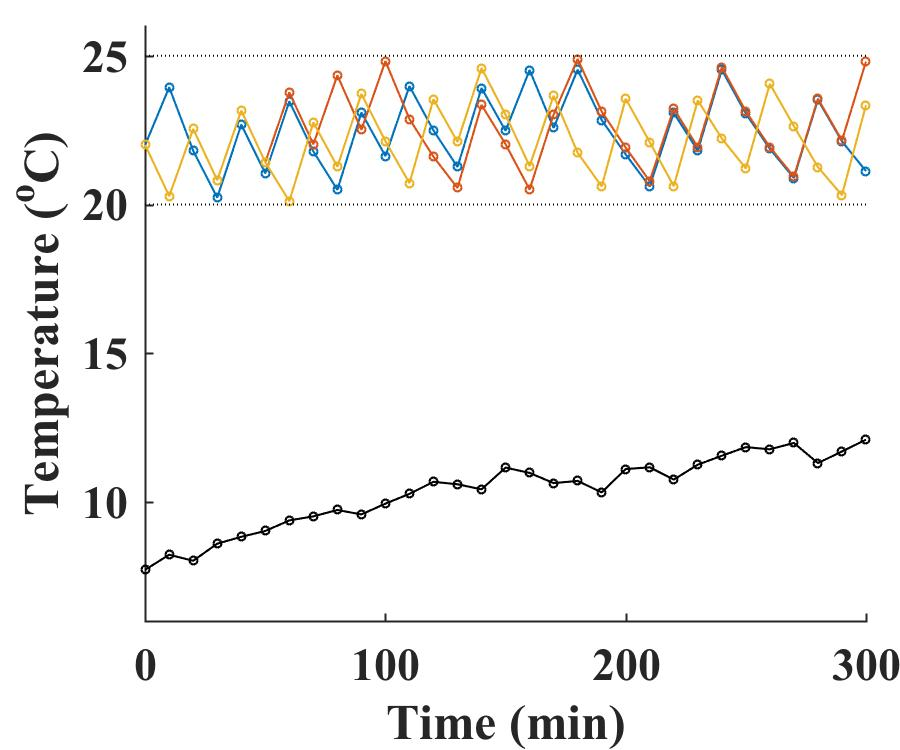
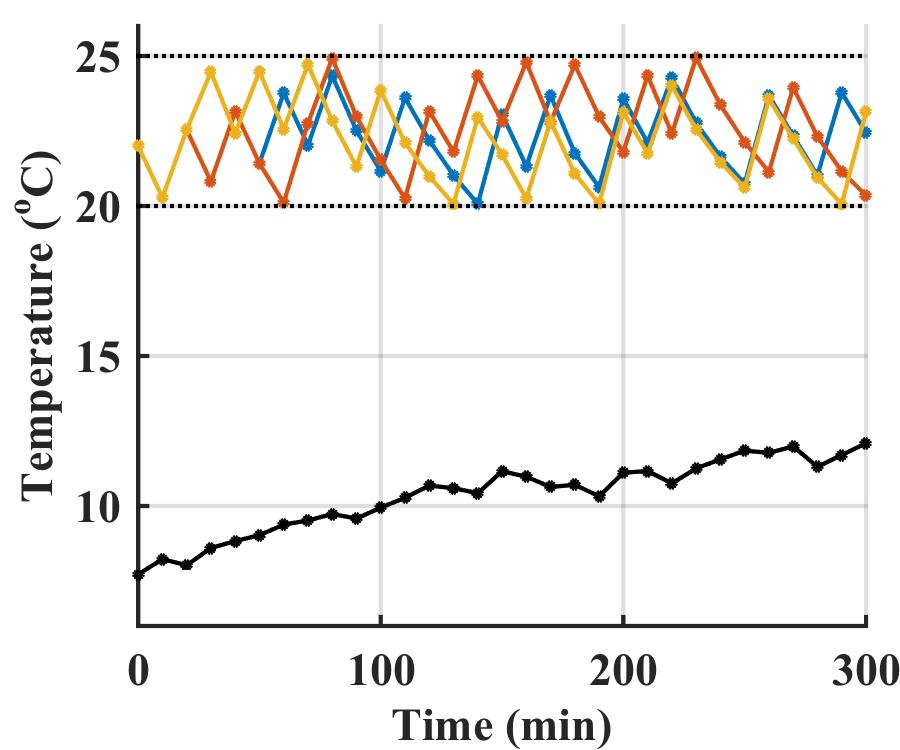
fresh update

Changed region(s): [[0.0, 0.0307, 1.0, 1.0]]

diff --git a/MILP.m b/MILP.m
@@ -1,7 +1,7 @@
-function [uz, ug] = MILP(Z, G, n, t, I, Qz, Efan, etaz, Pg, Fg, Rz, Cz, kz, Tll, Tul, T_o, rho_temp, plt )
+function [time, uz, ug] = MILP(par, T_o, forecast, q_int, constraints, plt)
 % 
 % %%%%%%%%%%%%%%%%%%%%%%%%%%%%%%%%%%%%%%%%%%%%%%%%%%%%%%%%%%%%%%%%%%%%%%%%%%%
-%   Grant Gunnison
+%   David, Grant Gunnison, Pete Lindahl
 %
 %  This program solves the optimization of a number of army tent heaters 
 %  drawing power from a number of generators.  The heaters are on-off
@@ -15,17 +15,64 @@ function [uz, ug] = MILP(Z, G, n, t, I, Qz, Efan, etaz, Pg, Fg, Rz, Cz, kz, Tll,
 %  4) Internal gains are assumed all convective
 %  5) Temperature constraints are soft
 %
+%  Inputs:
+%
+%   Parameters - par
+%       (1) - Number of tents (1 heater per tent)      (-)
+%       (2) - Number of generators                     (-)
+%       (3) - Simulation starting time (Unix)          (s)
+%       (4) - Planning horizon                         (s)
+%       (5) - Time interval of planning horizon        (s)
+%       (6) - MILP time intervals                      (s)
+%       (7) - Nominal Heating output of heater z       (W)
+%       (8) - Power consumption of supply fan z        (W)
+%       (9) - Nom. Power-Heat efficiency of heater z   (Wth/We)
+%       (10)- Nominal Power output of generator g      (W)
+%       (11)- Nom. Fuel consumption of generator g     (Gal/s)
+%       (12)- Nominal Resistance value of tent z       (K/W)
+%       (13)- Nominal Capacitance value of tent z      (J/K)
+%       (14)- Nominal Solar absorptance coefficient z  (m^2)
+%       (15)- Penalty for temperature violation        (W)
+%
+%   T_o - initial temperature of tents                 (K)
+%
+%   forecast - contains the weather and load forecast for the MILP
+%   optimization period.
+%   Structure [2 x N]:
+%       [T_ext, Sol_ext, Q_int] where:
+%           T_ext - external temperature               (K)
+%           Sol_ext - Solarirradiance                  (W/m^2)
+%
+%   q_int - internal heat load matrix for tents (Z x N)(W)
+%
+%   constraints - contains the upper and lower limits for the tents
+%   Structure [2 x N]:
+%       [Tll, Tul] where:
+%           Tll - lower temperature limit              (K)
+%           Tul - upper temperature limit              (K)
 %%%%%%%%%%%%%%%%%%%%%%%%%%%%%%%%%%%%%%%%%%%%%%%%%%%%%%%%%%%%%%%%%%%%%%%%%%%
 close all
 tic
 %% Inputs
-%  Parameters
-% %  Z                            %  Number of tents (1 heater per tent)  (-)
-% %  G                            %  Number of generators                 (-)
-% %  n                            %  Planning horizon                     (s)
-% %  t                            %  Time interval of planning horizon    (s)
-% %  I                            %  Number of time intervals             (-)
-% %  rho_temp                     %  Penalty for temperative violation    (W)
+
+%  Unpack parameters
+Z = par(1);
+G = par(2);
+st = par(3);
+n = par(4);
+t = par(5);
+I = par(6);
+Qz = par(7);
+Efan = par(8);
+etaz = par(9);
+Pg = par(10);
+Fg = par(11);
+Rz = par(12);
+Cz = par(13);
+kz = par(14);
+rho_temp = par(15);
+
+% Create parameter streams
 Qz   = Qz*ones(1,Z);            %  Heating output of heater z           (W)
 Efan = Efan*ones(1,Z);          %  Power consumption of supply fan z    (W)
 etaz = etaz*ones(1,Z);          %  Power-Heat efficiency of heater z    (Wth/We)
@@ -34,25 +81,23 @@ Fg   = Fg*ones(1,G);            %  Fuel consumption of generator g      (Gal/s)
 Rz   = Rz*ones(1,Z);            %  Resistance value of tent z           (K/W)
 Cz   = Cz*ones(1,Z);            %  Capacitance value of tent z          (J/K)
 kz   = kz*ones(1,Z);            %  Solar absorptance coefficient z      (m^2)
-Tll  = (Tll + 273.15)*ones(I,Z);%  Lower temperature limit of tent z    (K)
-Tul  = (Tul+273.15)*ones(I,Z);  %  Upper temperature limit of tent z    (K)
-T_o  = (T_o+ 273.15)*ones(1,Z); %  Initial temperature of tent z        (K)
 
-
-weafil = 'June2014weatherdata.txt';
-% weadir = '/Users/lindahl/Documents/Research/Projects/Devens Temperature Experiment/Forward Simulation/Version 1.2/';
-weadir = '/Users/GrantGunnison/Dropbox/6.UAR/Tent Simulation/';
 %  Exogenous data
-plt = 1;
-[Tx, qsol] = ReadWeather([weadir weafil], n, 2*60, plt);
-Tx = ((Tx-32)*5/9 + 273.15)-15; % (Convert F to C) and adjust so need heating
-qint    = 1000*ones(I,Z);
+Tx = forecast(:,1);
+qsol = forecast(:,2);
+
+% combine load data (solar and internal for purposes of MILP)
 qload   = zeros(I,Z);
 for z = 1:Z
     for i = 1:I
-        qload(i,z) = kz(z)*qsol(i) + qint(i,z);
+        qload(i,z) = kz(z)*qsol(i) + q_int(i,z);
     end
 end
+
+% Constraint streams
+Tll = constraints(:,1:2:end);
+Tul = constraints(:,2:2:end);
+
 %%  Building Optimization Matrices
 %  State variables
 x = zeros(Z*I,1);
@@ -132,7 +177,6 @@ for z = 1:Z
     Tll_opt = [Tll_opt; Tll(:,z)];
     Tul_opt = [Tul_opt; Tul(:,z)];
 end
-cvx_solver gurobi
 cvx_begin quiet
     variable x_var(Z*I);
     variable x_var_bin(Z*I + G*I) binary;
@@ -183,25 +227,30 @@ end
 % Figure_properties({1}, 3, 2.5);
 % Figure_print(1, 'jpeg', 3,2.5,300, 'Number of Generators');
 % 
-% figure(2)
-% hold on;
-% plot(repmat(time,1,Z), T-273.15, '-o', 'markersize', 2);
-for z = 1:Z
-    plot(time, Tul(:,z)-273.15, ':k');
-    plot(time, Tll(:,z)-273.15, ':k');
-end
-% plot(time, Tx - 273.15, '-ok', 'markersize', 2);
-% ylabel('Temperature (^oC)');
-% xlabel('Time (min)');
-% Figure_properties({2}, 3, 2.5);
-% Figure_print(2, 'jpeg', 3,2.5,300, 'Tent Temperature');
 
-figure(3)
-hold on;
-plot(repmat(time,1,Z), uz, '-o', 'markersize', 2);
-set(gca, 'ytick', [0:1:1]);
-ylim([0 1]);
-ylabel('Tent Heater Status');
-xlabel('Time (min)');
-Figure_properties({3}, 3, 2.5);
-Figure_print(3, 'jpeg', 3,2.5,300, 'Tent Heater Status');
+if plt == 1
+    figure;
+    hold on;
+    grid on;
+    plot(repmat(time,1,Z), T-273.15, '-o', 'markersize', 2);
+    for z = 1:Z
+        plot(time, Tul(:,z)-273.15, ':k');
+        plot(time, Tll(:,z)-273.15, ':k');
+    end
+    plot(time, Tx - 273.15, '-ok', 'markersize', 2);
+    ylabel('Temperature (^oC)');
+    xlabel('Time (min)');
+    % Figure_properties({1}, 3, 2.5);
+    %Figure_print(1, 'jpeg', 3,2.5,300, 'Tent Temperature');
+
+    figure;
+    hold on;
+    grid on;
+    plot(repmat(time,1,Z), uz, '-o', 'markersize', 2);
+    set(gca, 'ytick', [0:1:1]);
+    ylim([0 1]);
+    ylabel('Tent Heater Status');
+    xlabel('Time (min)');
+    % Figure_properties({2}, 3, 2.5);
+    %Figure_print(2, 'jpeg', 3,2.5,300, 'Tent Heater Status');
+end

diff --git a/Weather Scrape.py b/Weather Scrape.py
@@ -1,0 +1,151 @@
+import mechanize
+import json
+import time as T
+import numpy as np
+import scipy.io
+
+
+'''Author Grant Gunnison, Last modified 1/21/16'''
+
+
+url ='https://api.forecast.io/forecast/4500ed9ab5c368b9ea32eca07d5c942b/'
+
+
+'''
+Arguments:
+
+location: latitude,longitude (String)
+		  
+		  Coordinates must be given with 
+		  a comma in between, but no spaces
+
+
+keys:    name of the data entry required from the json (List)
+
+Returns: Json as a dictionary
+'''
+def get_forecast_json(location, keys = 'all'):
+	
+	br = mechanize.Browser()
+	br.set_handle_robots(False)
+	response = br.open(url+ location).read()
+	max_qsol = 300
+
+	if keys == 'all':
+		json_dict = json.loads(response)
+
+	elif isinstance(keys, (list)):
+
+		forecast_dict = {}
+		json_dict = json.loads(response)
+
+		for key in keys:
+			forecast_dict[key] = json_dict[key]
+
+		json_dict = forecast_dict
+
+	sunrise = json_dict['daily']['data'][0]['sunriseTime']
+	sunset = json_dict['daily']['data'][0]['sunsetTime']
+	hour_list = []
+	for entry in json_dict['hourly']['data'][0:3]:
+		hour_list.append((entry['apparentTemperature'], entry['time'], entry['icon'], entry['cloudCover']))
+	min_tmp_list = []
+	min_qsol_list= []
+	for hour in range(len(hour_list)-1):
+		
+		difference = (hour_list[hour+1][0] - hour_list[hour][0])/60
+		temp, time = hour_list[hour][0:2]
+
+		if (hour != (len(hour_list) -2)):
+			
+			for minute in range(61):
+				
+				if minute %10 == 0:
+					temp += difference
+					tmp = ((temp-32)*5/9 + 273.15)-15;
+					time += 600
+					min_tmp_list.append(round(tmp, 3))
+					
+					if time < sunrise or time > sunset:
+						min_qsol_list.append(0.0)
+					elif time > sunrise and time < sunset and hour_list[hour][2] in ['rain', 'snow', 'sleet', 'fog', 'cloudy', 'partly-cloudy-day']:
+						coverage_qsol = (1-hour_list[hour][4])*max_qsol
+						
+						total_day_time = sunset -sunrise
+						mid_day = total_day_time/2
+						qsol_percentage = abs(time - mid_day)/mid_day
+						
+						min_qsol_list.append(round(coverage_qsol*qsol_percentage*max_qsol),2)
+					elif time > sunrise and time < sunset:
+
+						total_day_time = sunset -sunrise
+						mid_day = total_day_time/2.0
+						if time < (mid_day + sunrise):
+							qsol_percentage = (time-sunrise)/mid_day
+							min_qsol_list.append(round((qsol_percentage*max_qsol),2))
+
+						elif time == (mid_day+ sunrise):
+
+							qsol_percentage = 1
+							min_qsol_list.append(round((qsol_percentage*max_qsol),2))
+
+						elif time > (mid_day + sunrise):
+							qsol_percentage = abs(2*mid_day - (time - sunrise))/mid_day
+							
+							min_qsol_list.append(round((qsol_percentage*max_qsol),2))
+				else:
+					continue
+		else:
+			for minute in range(60):
+			
+				if minute %10 == 0:
+					temp += difference
+					tmp = ((temp-32)*5/9 + 273.15)-15;
+					time += 600
+					min_tmp_list.append(round(tmp, 3))
+					
+					if time < sunrise or time > sunset:
+						min_qsol_list.append(0.0)
+					elif time > sunrise and time < sunset and hour_list[hour][2] in ['rain', 'snow', 'sleet', 'fog', 'cloudy', 'partly-cloudy-day']:
+						coverage_qsol = (1-hour_list[hour][4])*max_qsol
+						
+						total_day_time = sunset -sunrise
+						mid_day = total_day_time/2
+						qsol_percentage = abs(time - mid_day)/mid_day
+						
+						min_qsol_list.append(round(coverage_qsol*qsol_percentage*max_qsol),2)
+					elif time > sunrise and time < sunset:
+
+						total_day_time = sunset -sunrise
+						mid_day = total_day_time/2.0
+						if time < (mid_day + sunrise):
+							qsol_percentage = (time-sunrise)/mid_day
+							min_qsol_list.append(round((qsol_percentage*max_qsol),2))
+
+						elif time == (mid_day+ sunrise):
+
+							qsol_percentage = 1
+							min_qsol_list.append(round((qsol_percentage*max_qsol),2))
+
+						elif time > (mid_day + sunrise):
+							qsol_percentage = abs(2*mid_day - (time - sunrise))/mid_day
+							
+							min_qsol_list.append(round((qsol_percentage*max_qsol),2))
+				else:
+					continue
+
+
+	forecast = np.zeros((2, len(min_tmp_list)), dtype=np.object)
+	forecast[0], forecast[1] = min_tmp_list, min_qsol_list
+
+	print forecast
+
+	scipy.io.savemat('forecast.mat', mdict={'forecast': forecast})
+	
+
+
+
+if __name__ == '__main__':
+	get_forecast_json('42.514794,-71.652153', ['hourly', 'daily'])
+
+

diff --git a/ss_inputs.m b/ss_inputs.m
@@ -1,6 +1,6 @@
 function U = ss_inputs(Z, Tx, qsol, Ql, uz)
 
-% Function creates nominal input matrix.
+% Function creates input matrix for simulation
 
 U = zeros(length(Tx),1+Z*3);    % prealocate U matrix
 U(:,1) = Tx;    % insert external temperature
@@ -8,10 +8,10 @@ U(:,1) = Tx;    % insert external temperature
 % loop through for number of tents and fill in nominal input vectors
 for xx = 1:Z
     U(:,3*(xx-1)+2) = qsol;
-    U(:,3*(xx-1)+3) = Ql;
+    U(:,3*(xx-1)+3) = Ql(:,xx);
     U(:,3*(xx-1)+4) = uz(:,xx); 
     
 end
 
-U = U';
+%U = U';
 end
